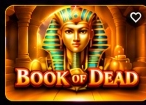
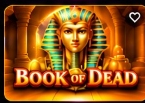
fix(demo): use pixel-exact game card crops and object-fill for 100% visual fidelity

diff --git a/components/designs/CasinoPreviewStage.tsx b/components/designs/CasinoPreviewStage.tsx
@@ -220,13 +220,13 @@ export default function CasinoPreviewStage({ design }: CasinoPreviewStageProps) 
                 <div
                   key={game.id}
                   onClick={() => setActiveModalGame(game.name)}
-                  className="group relative rounded-xl overflow-hidden border border-purple-600/50 hover:border-yellow-400 bg-[#090214] aspect-[146/105] cursor-pointer shadow-[0_0_12px_rgba(168,85,247,0.2)] hover:shadow-[0_0_20px_rgba(255,215,0,0.5)] transition-all"
+                  className="group relative rounded-xl overflow-hidden border border-purple-600/50 hover:border-yellow-400 bg-[#090214] aspect-[146/103] cursor-pointer shadow-[0_0_12px_rgba(168,85,247,0.2)] hover:shadow-[0_0_20px_rgba(255,215,0,0.5)] transition-all"
                 >
                   <Image
                     src={game.image}
                     alt={game.name}
                     fill
-                    className="object-cover group-hover:scale-105 transition-transform duration-300"
+                    className="object-fill group-hover:scale-105 transition-transform duration-300"
                   />
 
                   {/* Favorite Button */}
